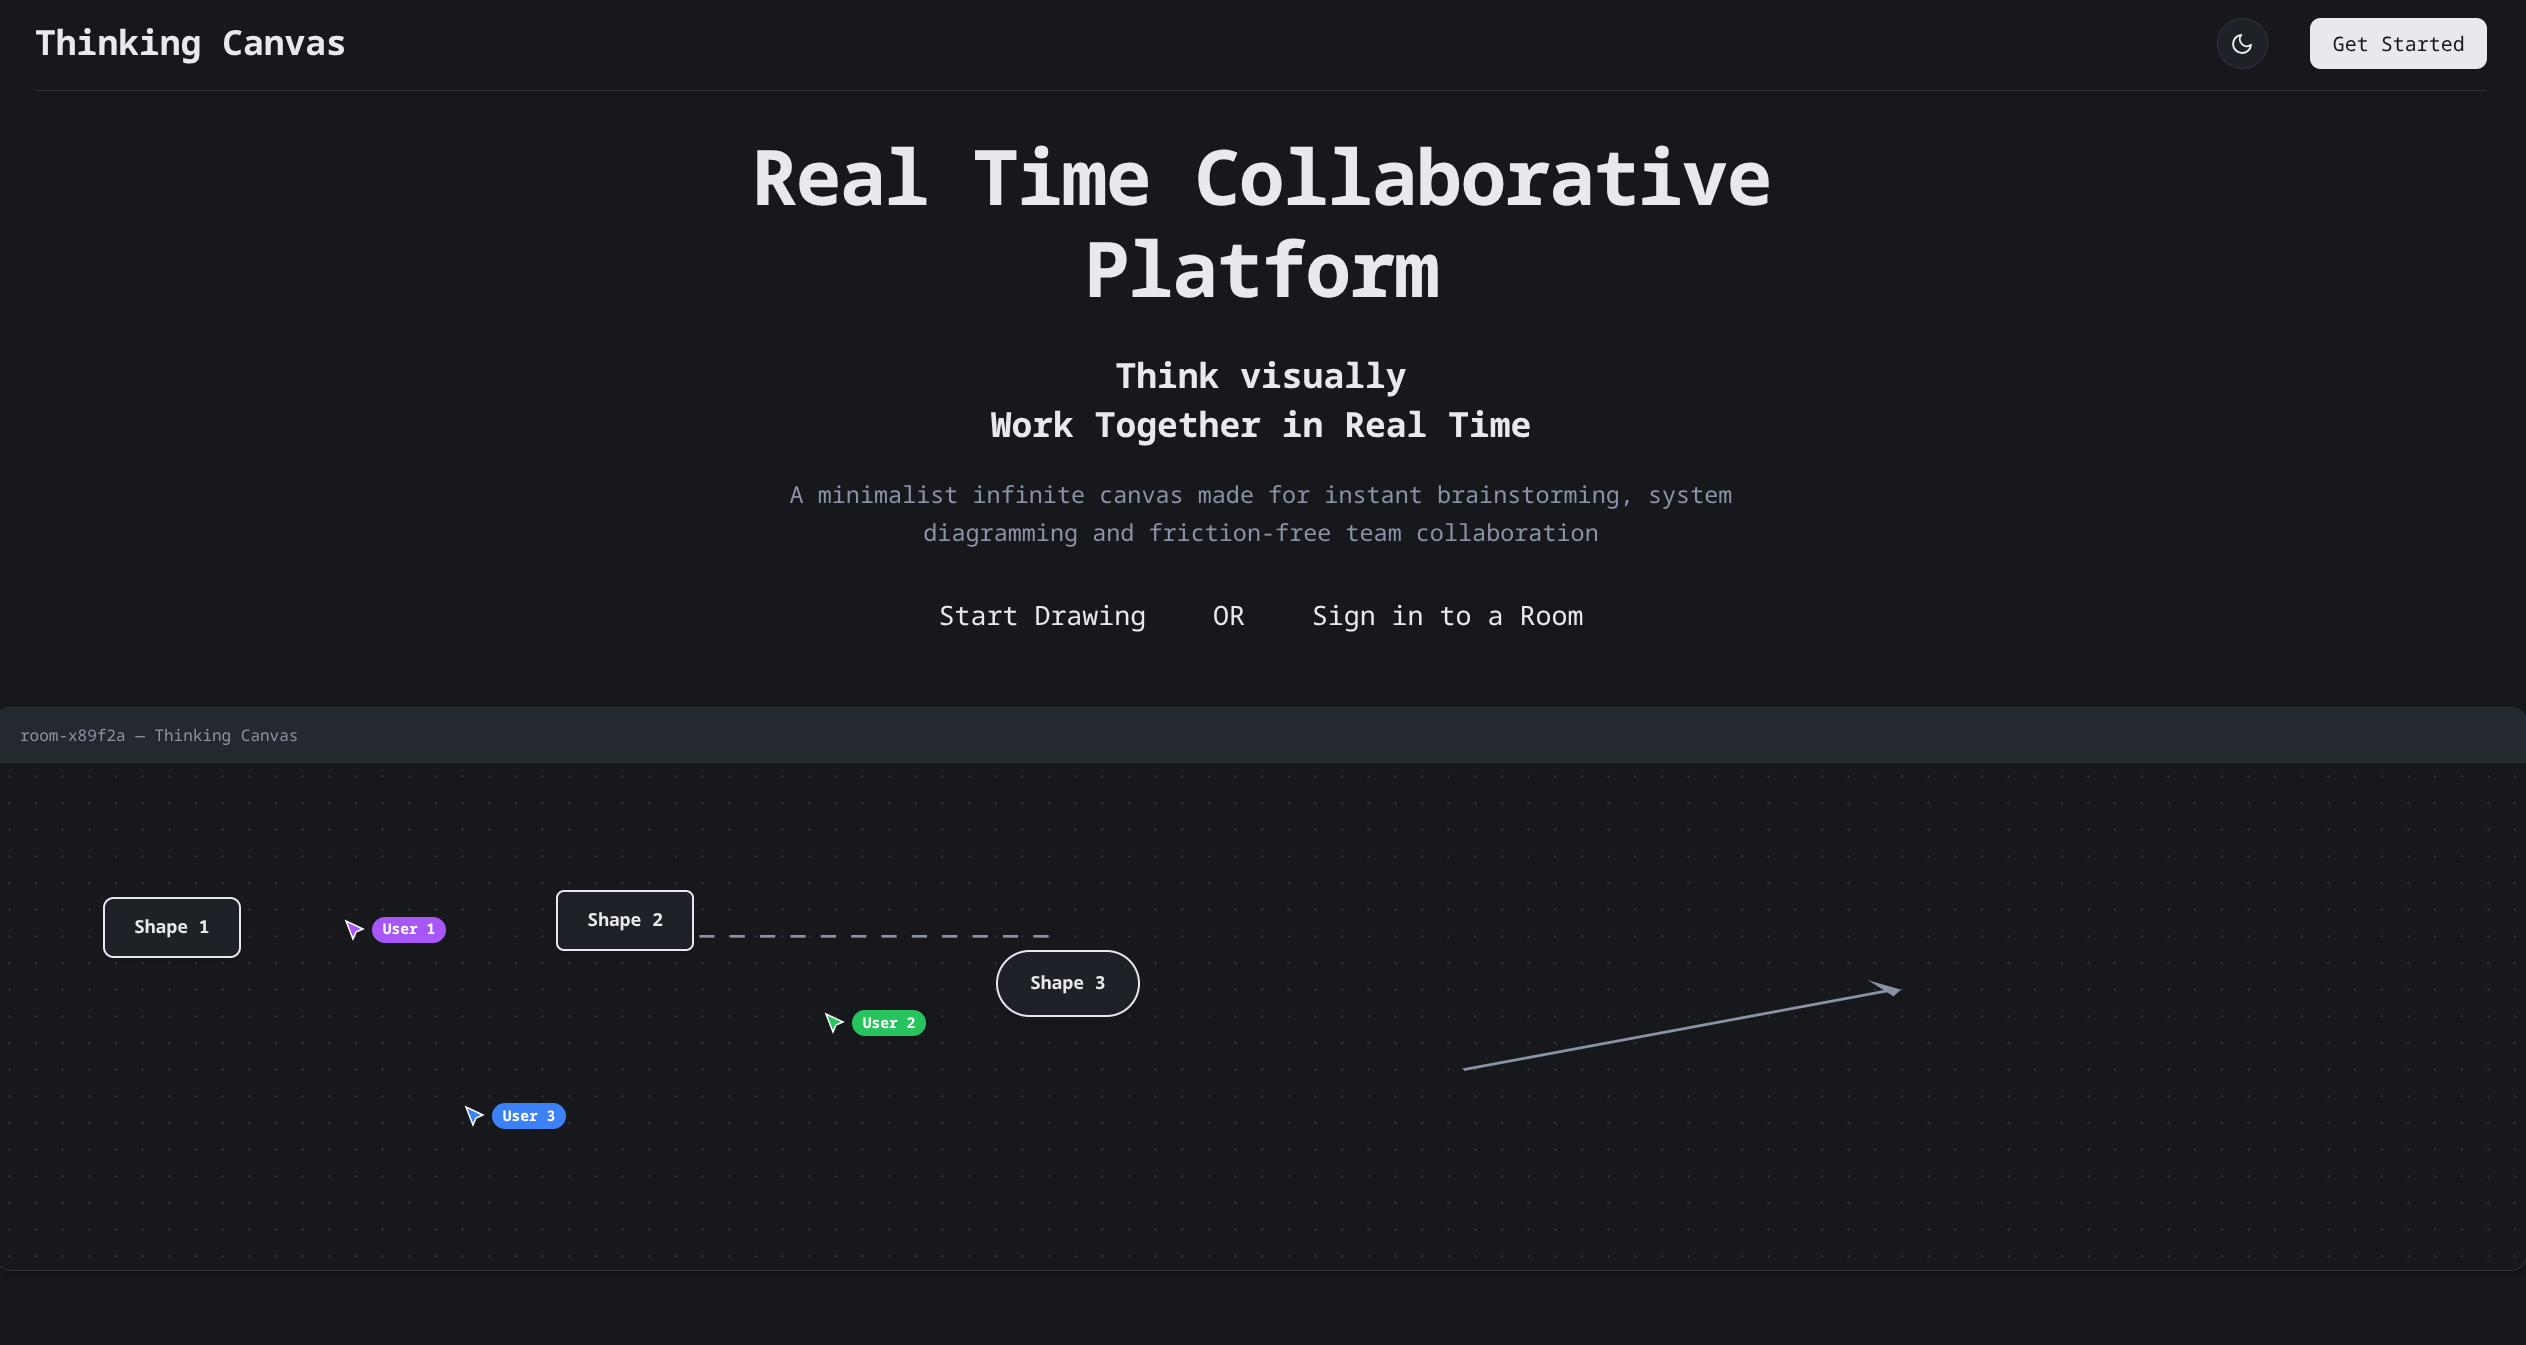
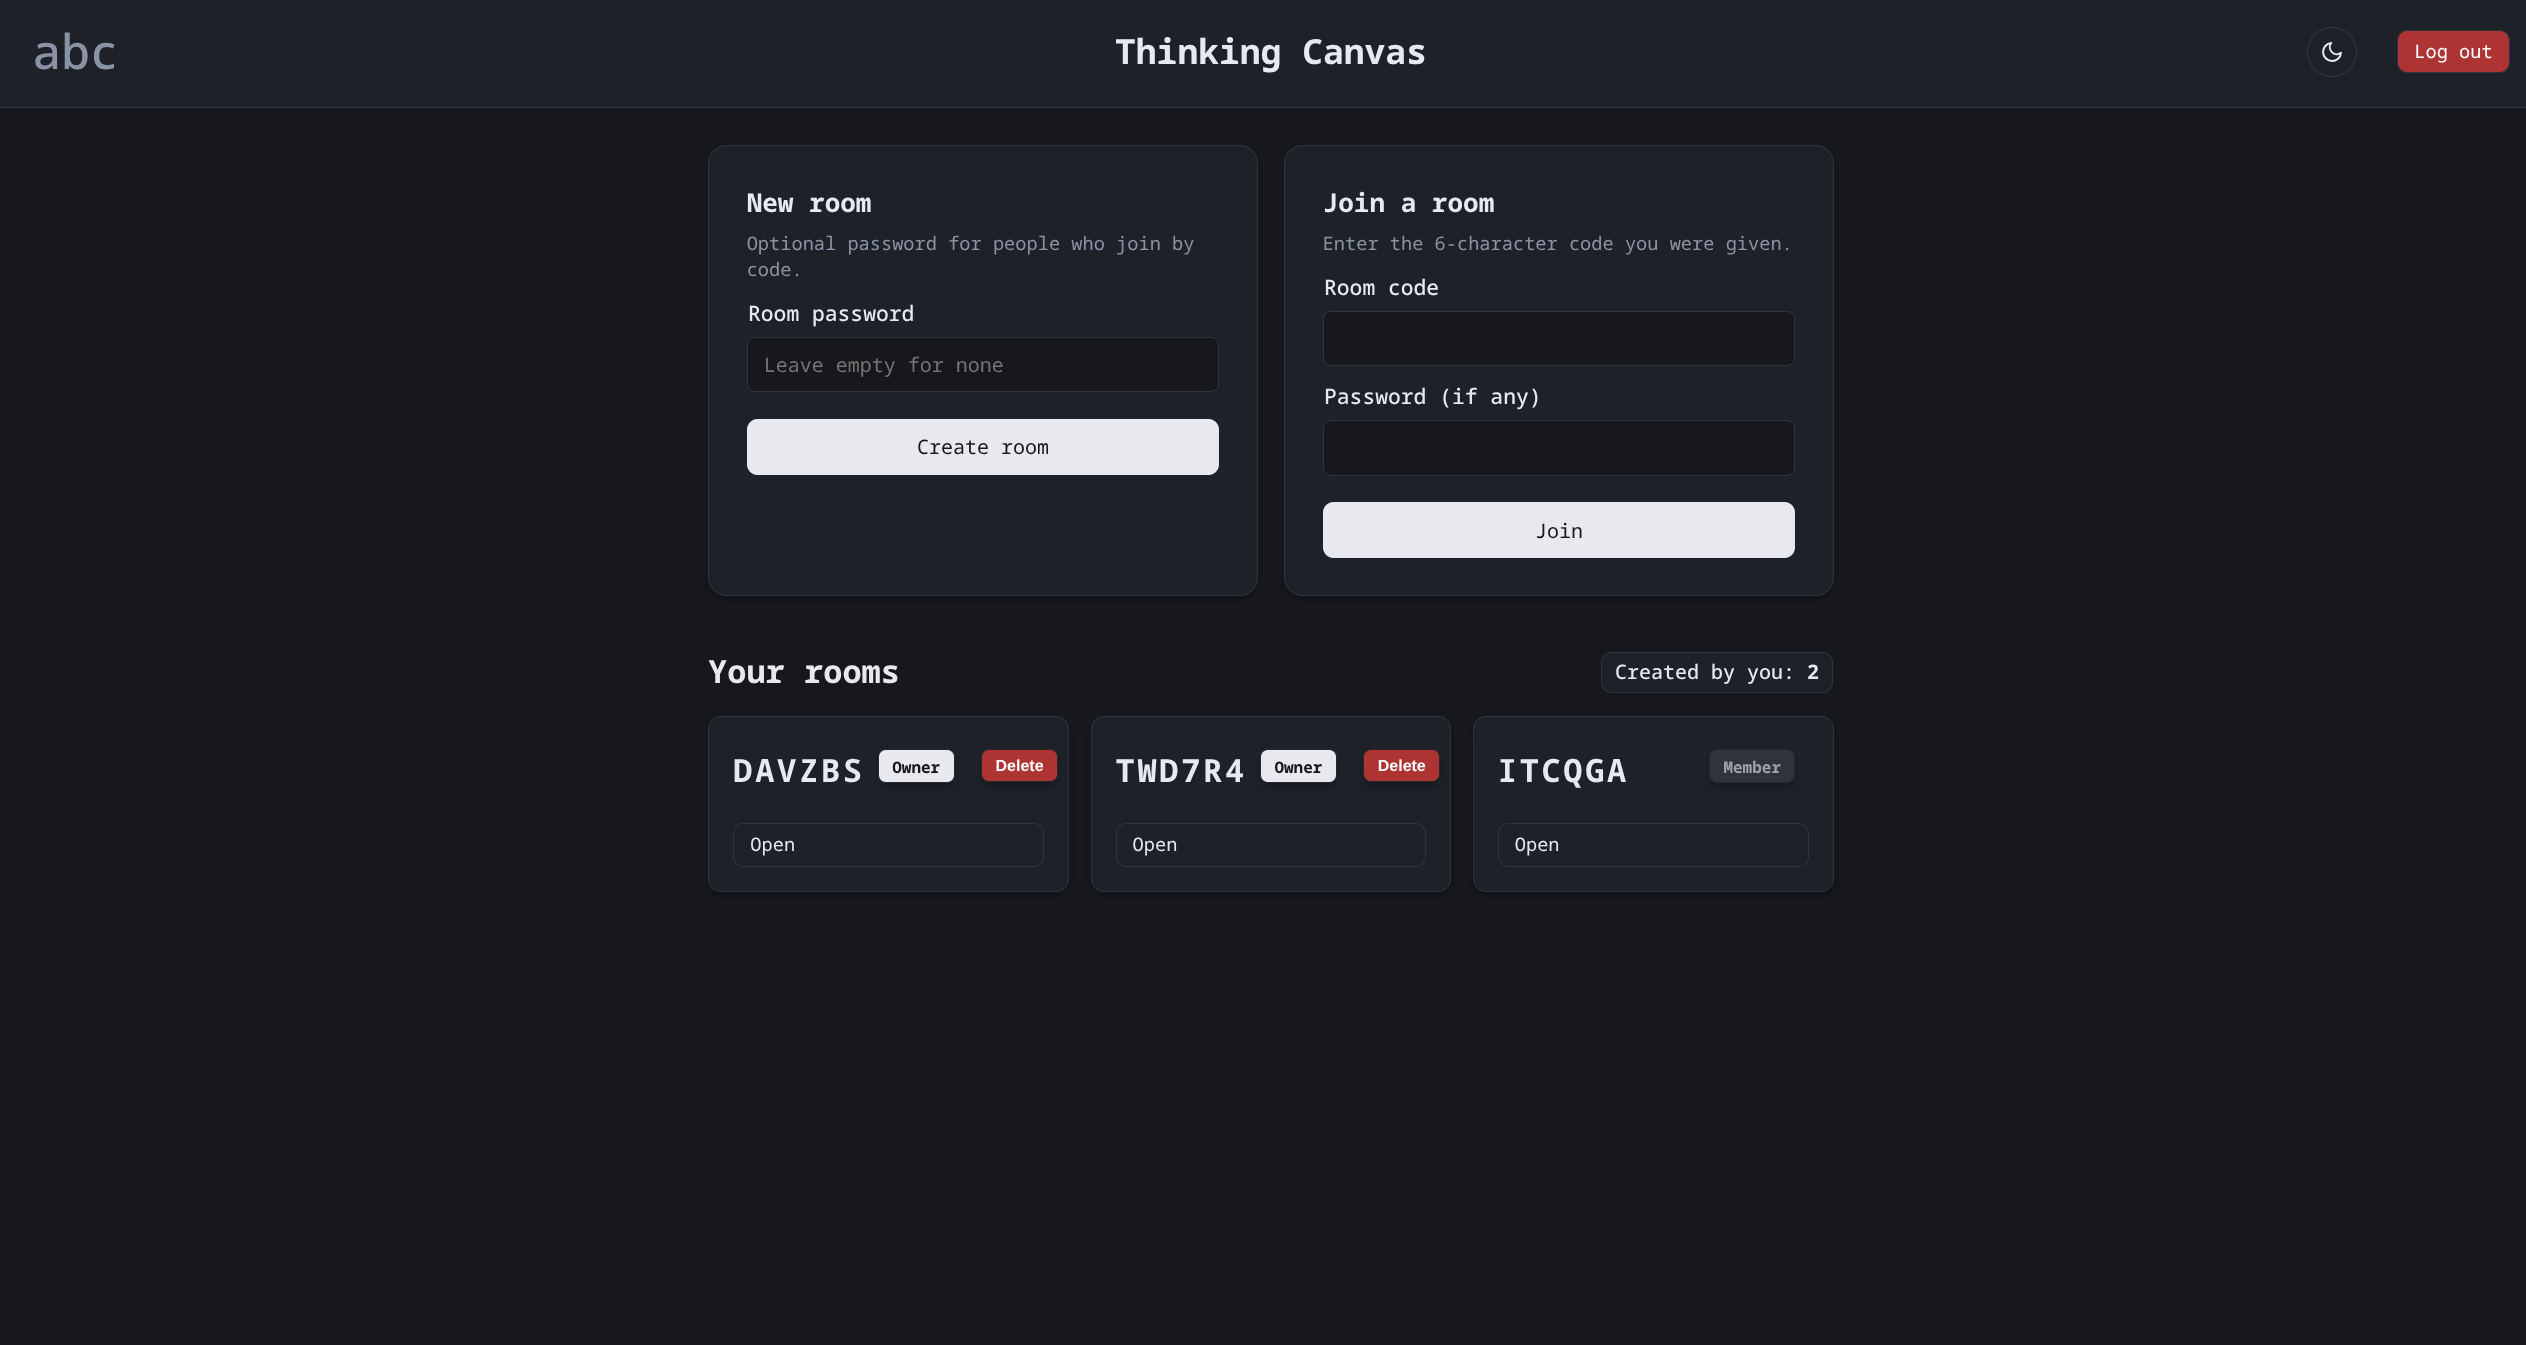
added some more screenshots fo project for better preview once again 2

diff --git a/README.md b/README.md
@@ -15,11 +15,11 @@ Built using express websocket, postgresql and reactjs a web-app where you can cr
 
 ## Screenshots
 
-![Thinking Canvas - landing page](/assets/3.png)
+![Thinking Canvas - landing page](/assets/1.png)
 
-![Thinking Canvas - dashboard](/assets/2.png)
+![Thinking Canvas - dashboard](/assets/3.png)
 
-![Thinking Canvas - drawing room](/assets/3.png)
+![Thinking Canvas - drawing room](/assets/2.png)
 
 ![Thinking Canvas - View Only](/assets/4.png)
 
